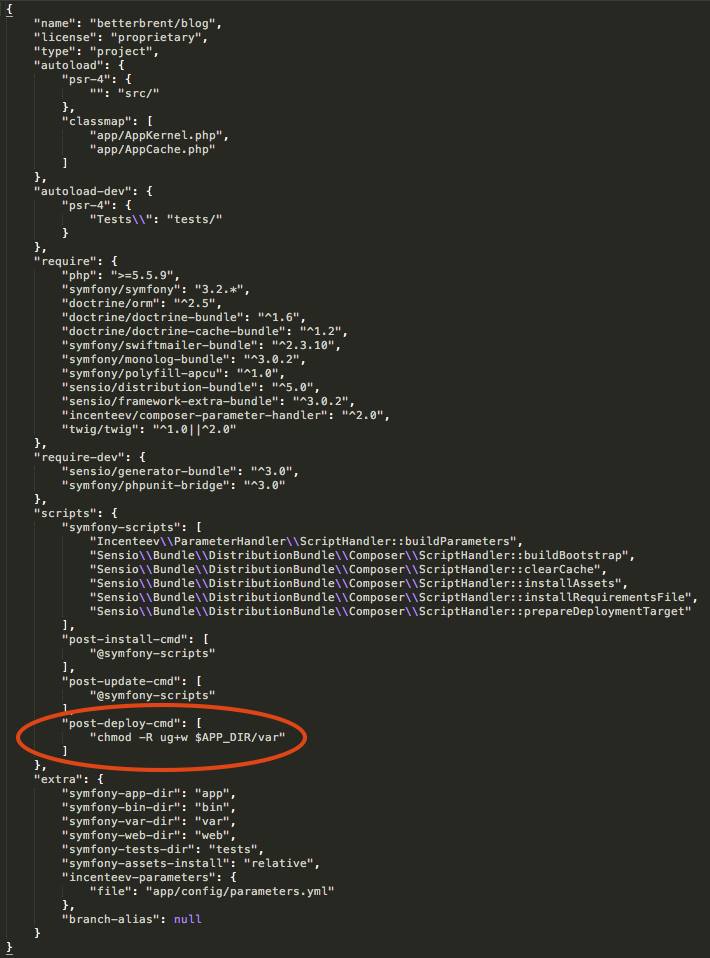
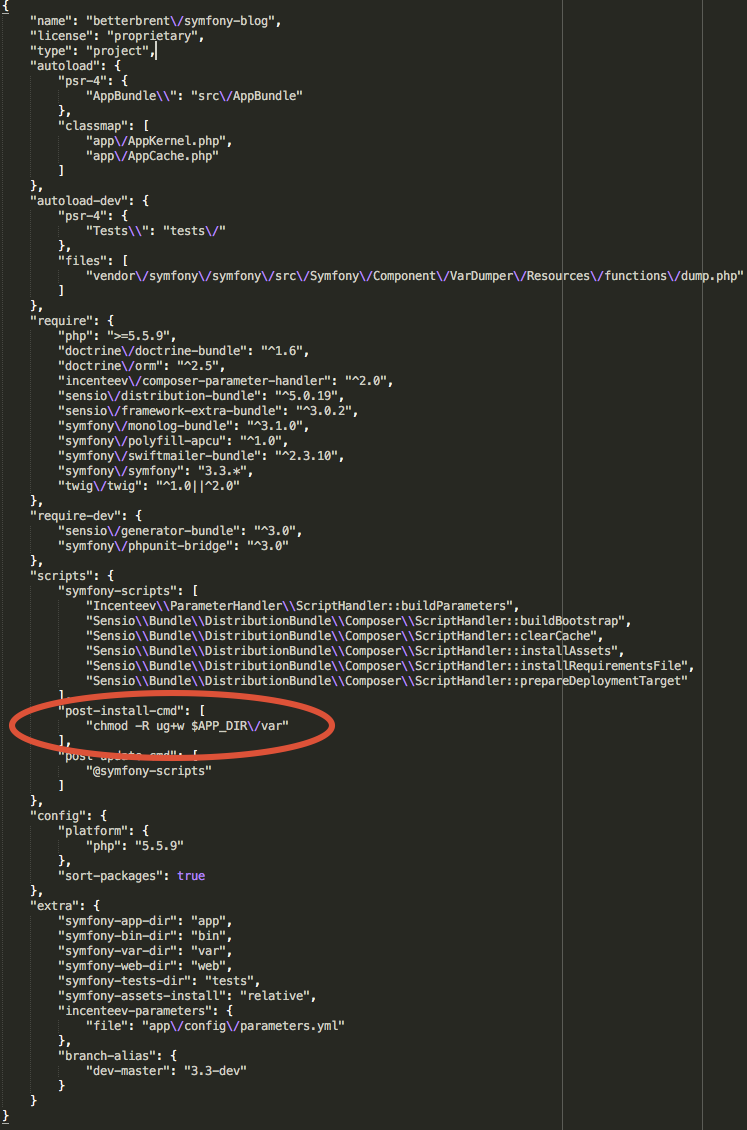
updates symfony and laravel to use post-install-cmd (#250)

Changed region(s): [[0.0, 0.0, 0.9915, 0.9687], [0.0, 0.9687, 0.062, 0.999], [0.4958, 0.4238, 0.5268, 0.4541]]

diff --git a/tutorials/run-laravel-on-appengine-flexible/index.md b/tutorials/run-laravel-on-appengine-flexible/index.md
@@ -59,25 +59,25 @@ from laravel.com.
 
     If you're on Linux or macOS, the following command will automatically
     update your `app.yaml`:
-  
+
         sed -i '' "s#YOUR_APP_KEY#$(php artisan key:generate --show --no-ansi)#" app.yaml
 
 1. Add the following under `scripts` in `composer.json`:
 
-        "post-deploy-cmd": [
+        "post-install-cmd": [
             "chmod -R 755 bootstrap\/cache",
             "php artisan cache:clear"
         ]
 
     In the context of Laravel's `composer.json` file, it will look like this:
 
-    ![Add post-deploy-cmd scripts to composer.json][composer-json]
+    ![Add post-install-cmd scripts to composer.json][composer-json]
 
 1. Run the following command to deploy your app:
 
         gcloud app deploy
 
-1. Visit `http://YOUR_PROJECT_ID.appspot.com` to see the Laravel welcome page. Replace `YOUR_PROJECT_ID` 
+1. Visit `http://YOUR_PROJECT_ID.appspot.com` to see the Laravel welcome page. Replace `YOUR_PROJECT_ID`
    with the ID of your GCP project.
 
     ![Laravel welcome page][laravel-welcome]

diff --git a/tutorials/run-symfony-on-appengine-flexible/index.md b/tutorials/run-symfony-on-appengine-flexible/index.md
@@ -56,13 +56,13 @@ Welcome page.
 
 1. Add the following under "scripts" in `composer.json`:
 
-        "post-deploy-cmd": [
+        "post-install-cmd": [
             "chmod -R ug+w $APP_DIR/var"
         ]
 
     In the context of Symfony's `composer.json`, it will look like this:
 
-    ![Add post-deploy-cmd scripts to composer.json][composer-json]
+    ![Add post-install-cmd scripts to composer.json][composer-json]
 
 1. Run the following command to deploy your app:
 
